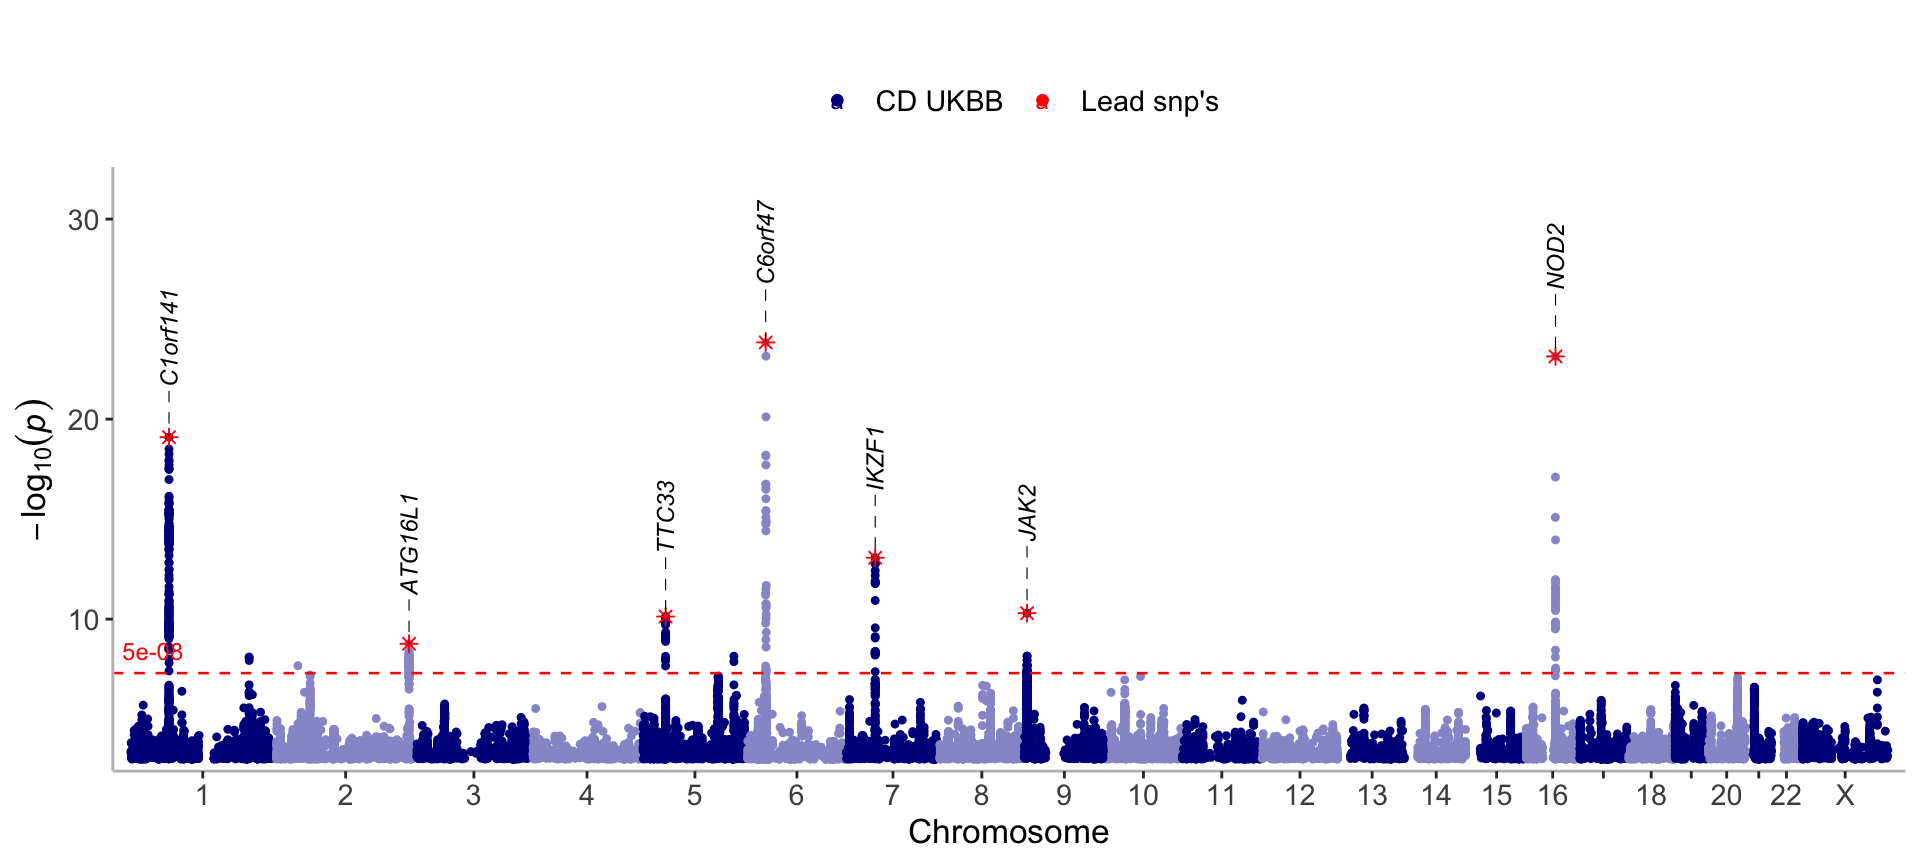
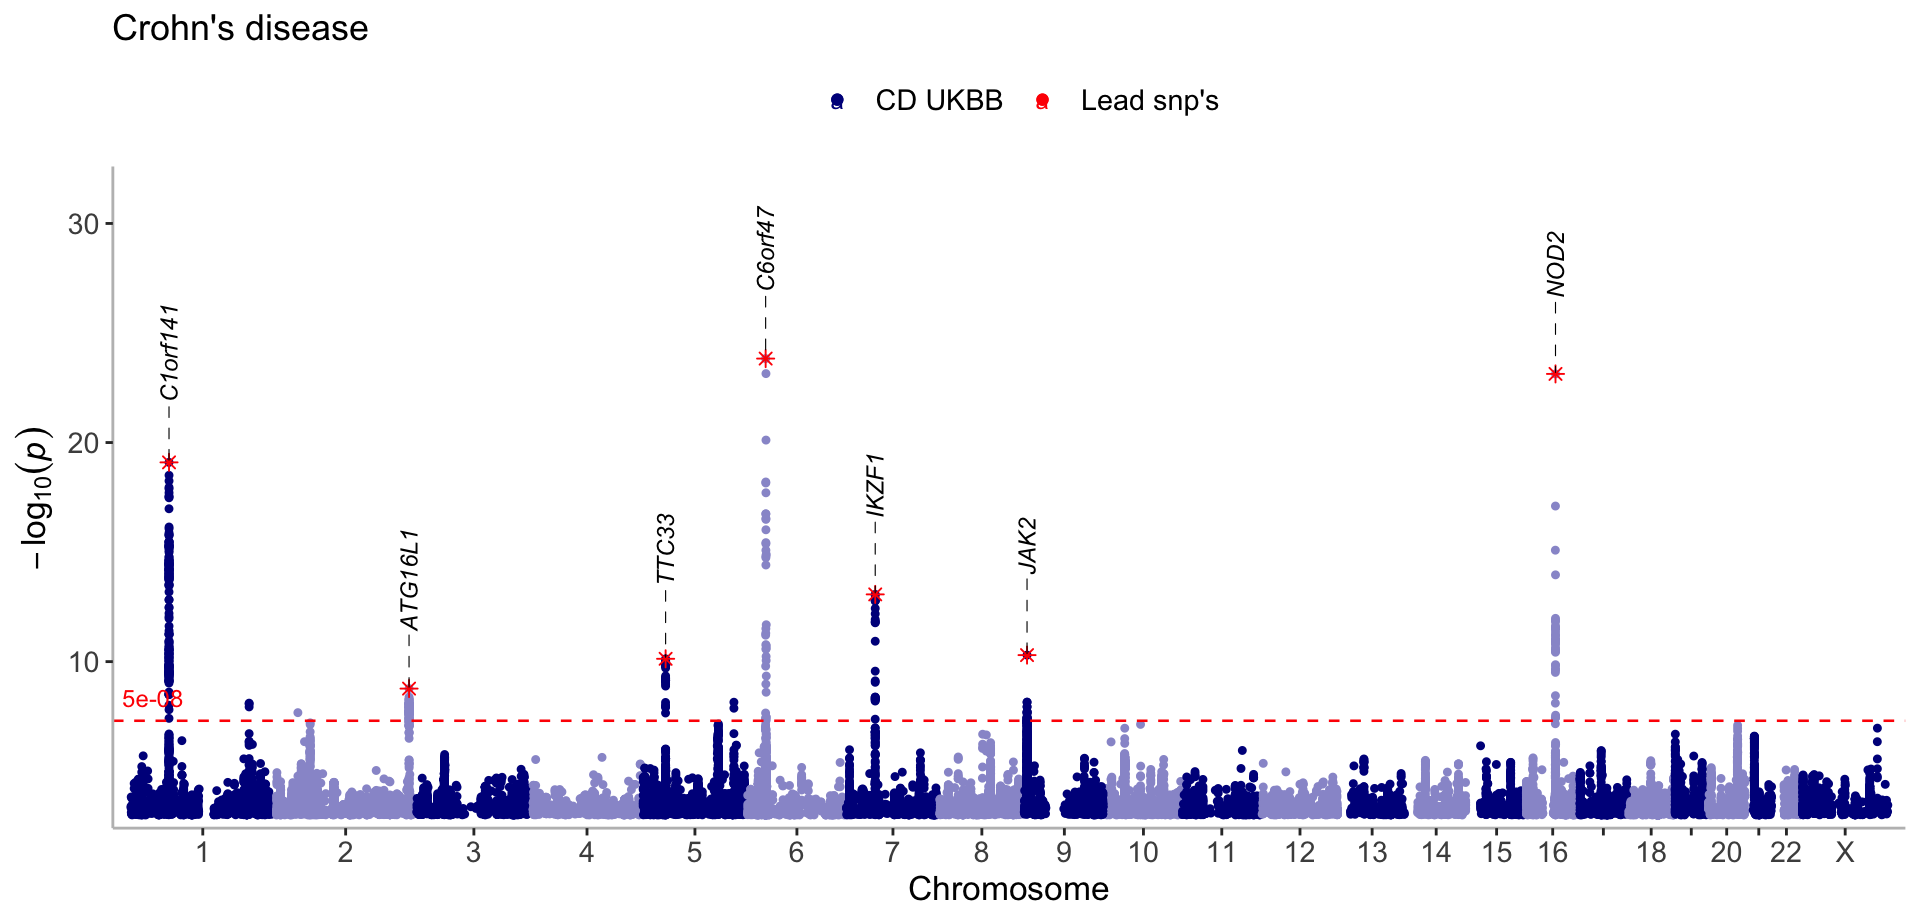
minor additions

diff --git a/docs/manhattan.html b/docs/manhattan.html
@@ -191,7 +191,7 @@ pre > code.sourceCode > span > a:first-child::before { text-decoration: underlin
   <li><a href="#single-gwas-1" id="toc-single-gwas-1" class="nav-link" data-scroll-target="#single-gwas-1">Single GWAS</a></li>
   <li><a href="#multi-gwas-1" id="toc-multi-gwas-1" class="nav-link" data-scroll-target="#multi-gwas-1">Multi GWAS</a></li>
   </ul></li>
-  <li><a href="#change-anglefontface-and-size-of-labels" id="toc-change-anglefontface-and-size-of-labels" class="nav-link" data-scroll-target="#change-anglefontface-and-size-of-labels">Change angle,fontface and size of labels</a></li>
+  <li><a href="#change-angle-fontface-and-size-of-labels" id="toc-change-angle-fontface-and-size-of-labels" class="nav-link" data-scroll-target="#change-angle-fontface-and-size-of-labels">Change angle, fontface and size of labels</a></li>
   </ul>
 </nav>
     </div>
@@ -255,7 +255,7 @@ pre > code.sourceCode > span > a:first-child::before { text-decoration: underlin
 <div class="sourceCode cell-code" id="cb5"><pre class="sourceCode r code-with-copy"><code class="sourceCode r"><span id="cb5-1"><a href="#cb5-1" aria-hidden="true" tabindex="-1"></a><span class="fu">manhattan</span>(<span class="fu">list</span>(CD_UKBB, lead_snps), </span>
 <span id="cb5-2"><a href="#cb5-2" aria-hidden="true" tabindex="-1"></a>          <span class="at">annotate=</span><span class="fu">c</span>(<span class="fl">5e-100</span>, <span class="fl">5e-09</span>), </span>
 <span id="cb5-3"><a href="#cb5-3" aria-hidden="true" tabindex="-1"></a>          <span class="at">color=</span><span class="fu">c</span>(<span class="st">"darkblue"</span>,<span class="st">"red"</span>), </span>
-<span id="cb5-4"><a href="#cb5-4" aria-hidden="true" tabindex="-1"></a>          <span class="at">legend_labels=</span><span class="fu">c</span>(<span class="st">"CD UKBB"</span>, <span class="st">"Lead snp's"</span>), <span class="at">verbose=</span>F) </span></code><button title="Copy to Clipboard" class="code-copy-button"><i class="bi"></i></button></pre></div>
+<span id="cb5-4"><a href="#cb5-4" aria-hidden="true" tabindex="-1"></a>          <span class="at">legend_labels=</span><span class="fu">c</span>(<span class="st">"CD UKBB"</span>, <span class="st">"Lead snp's"</span>), <span class="at">verbose=</span>F, <span class="at">title=</span><span class="st">"Crohn's disease"</span>) </span></code><button title="Copy to Clipboard" class="code-copy-button"><i class="bi"></i></button></pre></div>
 <div class="cell-output-display">
 <div>
 <figure class="figure">
@@ -279,7 +279,8 @@ pre > code.sourceCode > span > a:first-child::before { text-decoration: underlin
 <span id="cb6-11"><a href="#cb6-11" aria-hidden="true" tabindex="-1"></a>          <span class="at">legend_position =</span> <span class="st">"top"</span>, </span>
 <span id="cb6-12"><a href="#cb6-12" aria-hidden="true" tabindex="-1"></a>          <span class="at">ymax=</span><span class="dv">32</span>,  </span>
 <span id="cb6-13"><a href="#cb6-13" aria-hidden="true" tabindex="-1"></a>          <span class="at">even_no_chr_lightness =</span> <span class="fu">c</span>(<span class="fl">0.8</span>,<span class="fl">0.5</span>),</span>
-<span id="cb6-14"><a href="#cb6-14" aria-hidden="true" tabindex="-1"></a>          <span class="at">verbose=</span>F) </span></code><button title="Copy to Clipboard" class="code-copy-button"><i class="bi"></i></button></pre></div>
+<span id="cb6-14"><a href="#cb6-14" aria-hidden="true" tabindex="-1"></a>          <span class="at">verbose=</span>F,</span>
+<span id="cb6-15"><a href="#cb6-15" aria-hidden="true" tabindex="-1"></a>          <span class="at">title=</span><span class="st">"Crohn's disease"</span>) </span></code><button title="Copy to Clipboard" class="code-copy-button"><i class="bi"></i></button></pre></div>
 <div class="cell-output-display">
 <div>
 <figure class="figure">
@@ -292,7 +293,7 @@ pre > code.sourceCode > span > a:first-child::before { text-decoration: underlin
 <section id="multi-gwas" class="level2">
 <h2 class="anchored" data-anchor-id="multi-gwas">Multi GWAS</h2>
 <div class="cell">
-<div class="sourceCode cell-code" id="cb7"><pre class="sourceCode r code-with-copy"><code class="sourceCode r"><span id="cb7-1"><a href="#cb7-1" aria-hidden="true" tabindex="-1"></a><span class="fu">manhattan</span>(<span class="fu">list</span>(CD_UKBB, CD_FINNGEN), <span class="at">annotate =</span> <span class="fl">1e-12</span>, <span class="at">legend_labels=</span><span class="fu">c</span>(<span class="st">"CD UKBB"</span>, <span class="st">"CD FinnGen"</span>))</span></code><button title="Copy to Clipboard" class="code-copy-button"><i class="bi"></i></button></pre></div>
+<div class="sourceCode cell-code" id="cb7"><pre class="sourceCode r code-with-copy"><code class="sourceCode r"><span id="cb7-1"><a href="#cb7-1" aria-hidden="true" tabindex="-1"></a><span class="fu">manhattan</span>(<span class="fu">list</span>(CD_UKBB, CD_FINNGEN), <span class="at">annotate =</span> <span class="fl">1e-12</span>, <span class="at">legend_labels=</span><span class="fu">c</span>(<span class="st">"Crohn's (ukb)"</span>, <span class="st">"Crohn's (FinnGen)"</span>), <span class="at">title=</span><span class="st">"Inflammatory Bowel Disease"</span>)</span></code><button title="Copy to Clipboard" class="code-copy-button"><i class="bi"></i></button></pre></div>
 <div class="cell-output-display">
 <div>
 <figure class="figure">
@@ -302,7 +303,7 @@ pre > code.sourceCode > span > a:first-child::before { text-decoration: underlin
 </div>
 </div>
 <div class="cell">
-<div class="sourceCode cell-code" id="cb8"><pre class="sourceCode r code-with-copy"><code class="sourceCode r"><span id="cb8-1"><a href="#cb8-1" aria-hidden="true" tabindex="-1"></a><span class="fu">manhattan</span>(<span class="fu">list</span>(CD_UKBB, CD_FINNGEN), <span class="at">annotate =</span> <span class="fl">1e-9</span>,  <span class="at">legend_labels=</span><span class="fu">c</span>(<span class="st">"CD UKBB"</span>, <span class="st">"CD FinnGen"</span>), <span class="at">ntop=</span><span class="dv">1</span>)</span></code><button title="Copy to Clipboard" class="code-copy-button"><i class="bi"></i></button></pre></div>
+<div class="sourceCode cell-code" id="cb8"><pre class="sourceCode r code-with-copy"><code class="sourceCode r"><span id="cb8-1"><a href="#cb8-1" aria-hidden="true" tabindex="-1"></a><span class="fu">manhattan</span>(<span class="fu">list</span>(CD_UKBB, CD_FINNGEN), <span class="at">annotate =</span> <span class="fl">1e-9</span>,  <span class="at">legend_labels=</span><span class="fu">c</span>(<span class="st">"Crohn's (ukb)"</span>, <span class="st">"Crohn's (FinnGen)"</span>), <span class="at">ntop=</span><span class="dv">1</span>, <span class="at">title=</span><span class="st">"Inflammatory Bowel Disease"</span>)</span></code><button title="Copy to Clipboard" class="code-copy-button"><i class="bi"></i></button></pre></div>
 <div class="cell-output-display">
 <div>
 <figure class="figure">
@@ -314,10 +315,12 @@ pre > code.sourceCode > span > a:first-child::before { text-decoration: underlin
 <div class="cell">
 <div class="sourceCode cell-code" id="cb9"><pre class="sourceCode r code-with-copy"><code class="sourceCode r"><span id="cb9-1"><a href="#cb9-1" aria-hidden="true" tabindex="-1"></a><span class="fu">manhattan</span>(<span class="fu">list</span>(CD_UKBB, CD_FINNGEN, UC_UKBB), </span>
 <span id="cb9-2"><a href="#cb9-2" aria-hidden="true" tabindex="-1"></a>          <span class="at">annotate =</span> <span class="fl">1e-15</span>,  </span>
-<span id="cb9-3"><a href="#cb9-3" aria-hidden="true" tabindex="-1"></a>          <span class="at">legend_labels=</span><span class="fu">c</span>(<span class="st">"CD UKBB"</span>, <span class="st">"CD FinnGen"</span>, <span class="st">"UC UKBB"</span>), </span>
+<span id="cb9-3"><a href="#cb9-3" aria-hidden="true" tabindex="-1"></a>          <span class="at">legend_labels=</span><span class="fu">c</span>(<span class="st">"Crohn's (ukb)"</span>, <span class="st">"Crohn's (FinnGen)"</span>, <span class="st">"Colitis Ulcerosa (ukb)"</span>), </span>
 <span id="cb9-4"><a href="#cb9-4" aria-hidden="true" tabindex="-1"></a>          <span class="at">ntop=</span><span class="dv">2</span>, </span>
-<span id="cb9-5"><a href="#cb9-5" aria-hidden="true" tabindex="-1"></a>          <span class="at">color =</span> <span class="fu">c</span>(<span class="st">"darkorange"</span>,<span class="st">"darkred"</span>,<span class="st">"#464646"</span>), </span>
-<span id="cb9-6"><a href="#cb9-6" aria-hidden="true" tabindex="-1"></a>          <span class="at">sign_thresh_color =</span> <span class="st">"darkred"</span>, <span class="at">ymin=</span><span class="sc">-</span><span class="dv">38</span>)</span></code><button title="Copy to Clipboard" class="code-copy-button"><i class="bi"></i></button></pre></div>
+<span id="cb9-5"><a href="#cb9-5" aria-hidden="true" tabindex="-1"></a>          <span class="at">color =</span> <span class="fu">c</span>(<span class="st">"#f47c3c"</span>,<span class="st">"darkred"</span>,<span class="st">"#464646"</span>), </span>
+<span id="cb9-6"><a href="#cb9-6" aria-hidden="true" tabindex="-1"></a>          <span class="at">sign_thresh_color =</span> <span class="st">"darkred"</span>, </span>
+<span id="cb9-7"><a href="#cb9-7" aria-hidden="true" tabindex="-1"></a>          <span class="at">ymin=</span><span class="sc">-</span><span class="dv">38</span>,</span>
+<span id="cb9-8"><a href="#cb9-8" aria-hidden="true" tabindex="-1"></a>          <span class="at">title=</span><span class="st">"Inflammatory Bowel Disease"</span>)</span></code><button title="Copy to Clipboard" class="code-copy-button"><i class="bi"></i></button></pre></div>
 <div class="cell-output-display">
 <div>
 <figure class="figure">
@@ -383,15 +386,15 @@ pre > code.sourceCode > span > a:first-child::before { text-decoration: underlin
 </div>
 </section>
 </section>
-<section id="change-anglefontface-and-size-of-labels" class="level2">
-<h2 class="anchored" data-anchor-id="change-anglefontface-and-size-of-labels">Change angle,fontface and size of labels</h2>
+<section id="change-angle-fontface-and-size-of-labels" class="level2">
+<h2 class="anchored" data-anchor-id="change-angle-fontface-and-size-of-labels">Change angle, fontface and size of labels</h2>
 <div class="cell">
 <div class="sourceCode cell-code" id="cb14"><pre class="sourceCode r code-with-copy"><code class="sourceCode r"><span id="cb14-1"><a href="#cb14-1" aria-hidden="true" tabindex="-1"></a>lead_snps_FG<span class="ot">&lt;-</span> <span class="fu">get_lead_snps</span>(CD_FINNGEN)</span>
 <span id="cb14-2"><a href="#cb14-2" aria-hidden="true" tabindex="-1"></a><span class="fu">manhattan</span>(<span class="fu">list</span>(CD_UKBB, lead_snps_FG),  </span>
 <span id="cb14-3"><a href="#cb14-3" aria-hidden="true" tabindex="-1"></a>          <span class="at">color =</span> <span class="fu">c</span>(<span class="st">"darkred"</span>, <span class="st">"#464646"</span>),</span>
 <span id="cb14-4"><a href="#cb14-4" aria-hidden="true" tabindex="-1"></a>          <span class="at">label_fontface =</span> <span class="fu">c</span>(<span class="st">"italic"</span>,<span class="st">"bold"</span>), </span>
 <span id="cb14-5"><a href="#cb14-5" aria-hidden="true" tabindex="-1"></a>          <span class="at">angle=</span><span class="fu">c</span>(<span class="dv">90</span>,<span class="dv">45</span>),</span>
-<span id="cb14-6"><a href="#cb14-6" aria-hidden="true" tabindex="-1"></a>          <span class="at">legend_labels =</span> <span class="fu">c</span>(<span class="st">"CD UKBB"</span>,<span class="st">"lead snps FinnGen"</span>),</span>
+<span id="cb14-6"><a href="#cb14-6" aria-hidden="true" tabindex="-1"></a>          <span class="at">legend_labels =</span> <span class="fu">c</span>(<span class="st">"Crohn's ukb"</span>,<span class="st">" lead snps FinnGen"</span>),</span>
 <span id="cb14-7"><a href="#cb14-7" aria-hidden="true" tabindex="-1"></a>          <span class="at">annotate=</span><span class="fu">c</span>(<span class="fl">1e-15</span>, <span class="fl">1e-12</span>), </span>
 <span id="cb14-8"><a href="#cb14-8" aria-hidden="true" tabindex="-1"></a>          <span class="at">ymax=</span><span class="dv">60</span>, </span>
 <span id="cb14-9"><a href="#cb14-9" aria-hidden="true" tabindex="-1"></a>          <span class="at">nudge_y=</span><span class="fu">c</span>(<span class="dv">8</span>, <span class="dv">4</span>),</span>
